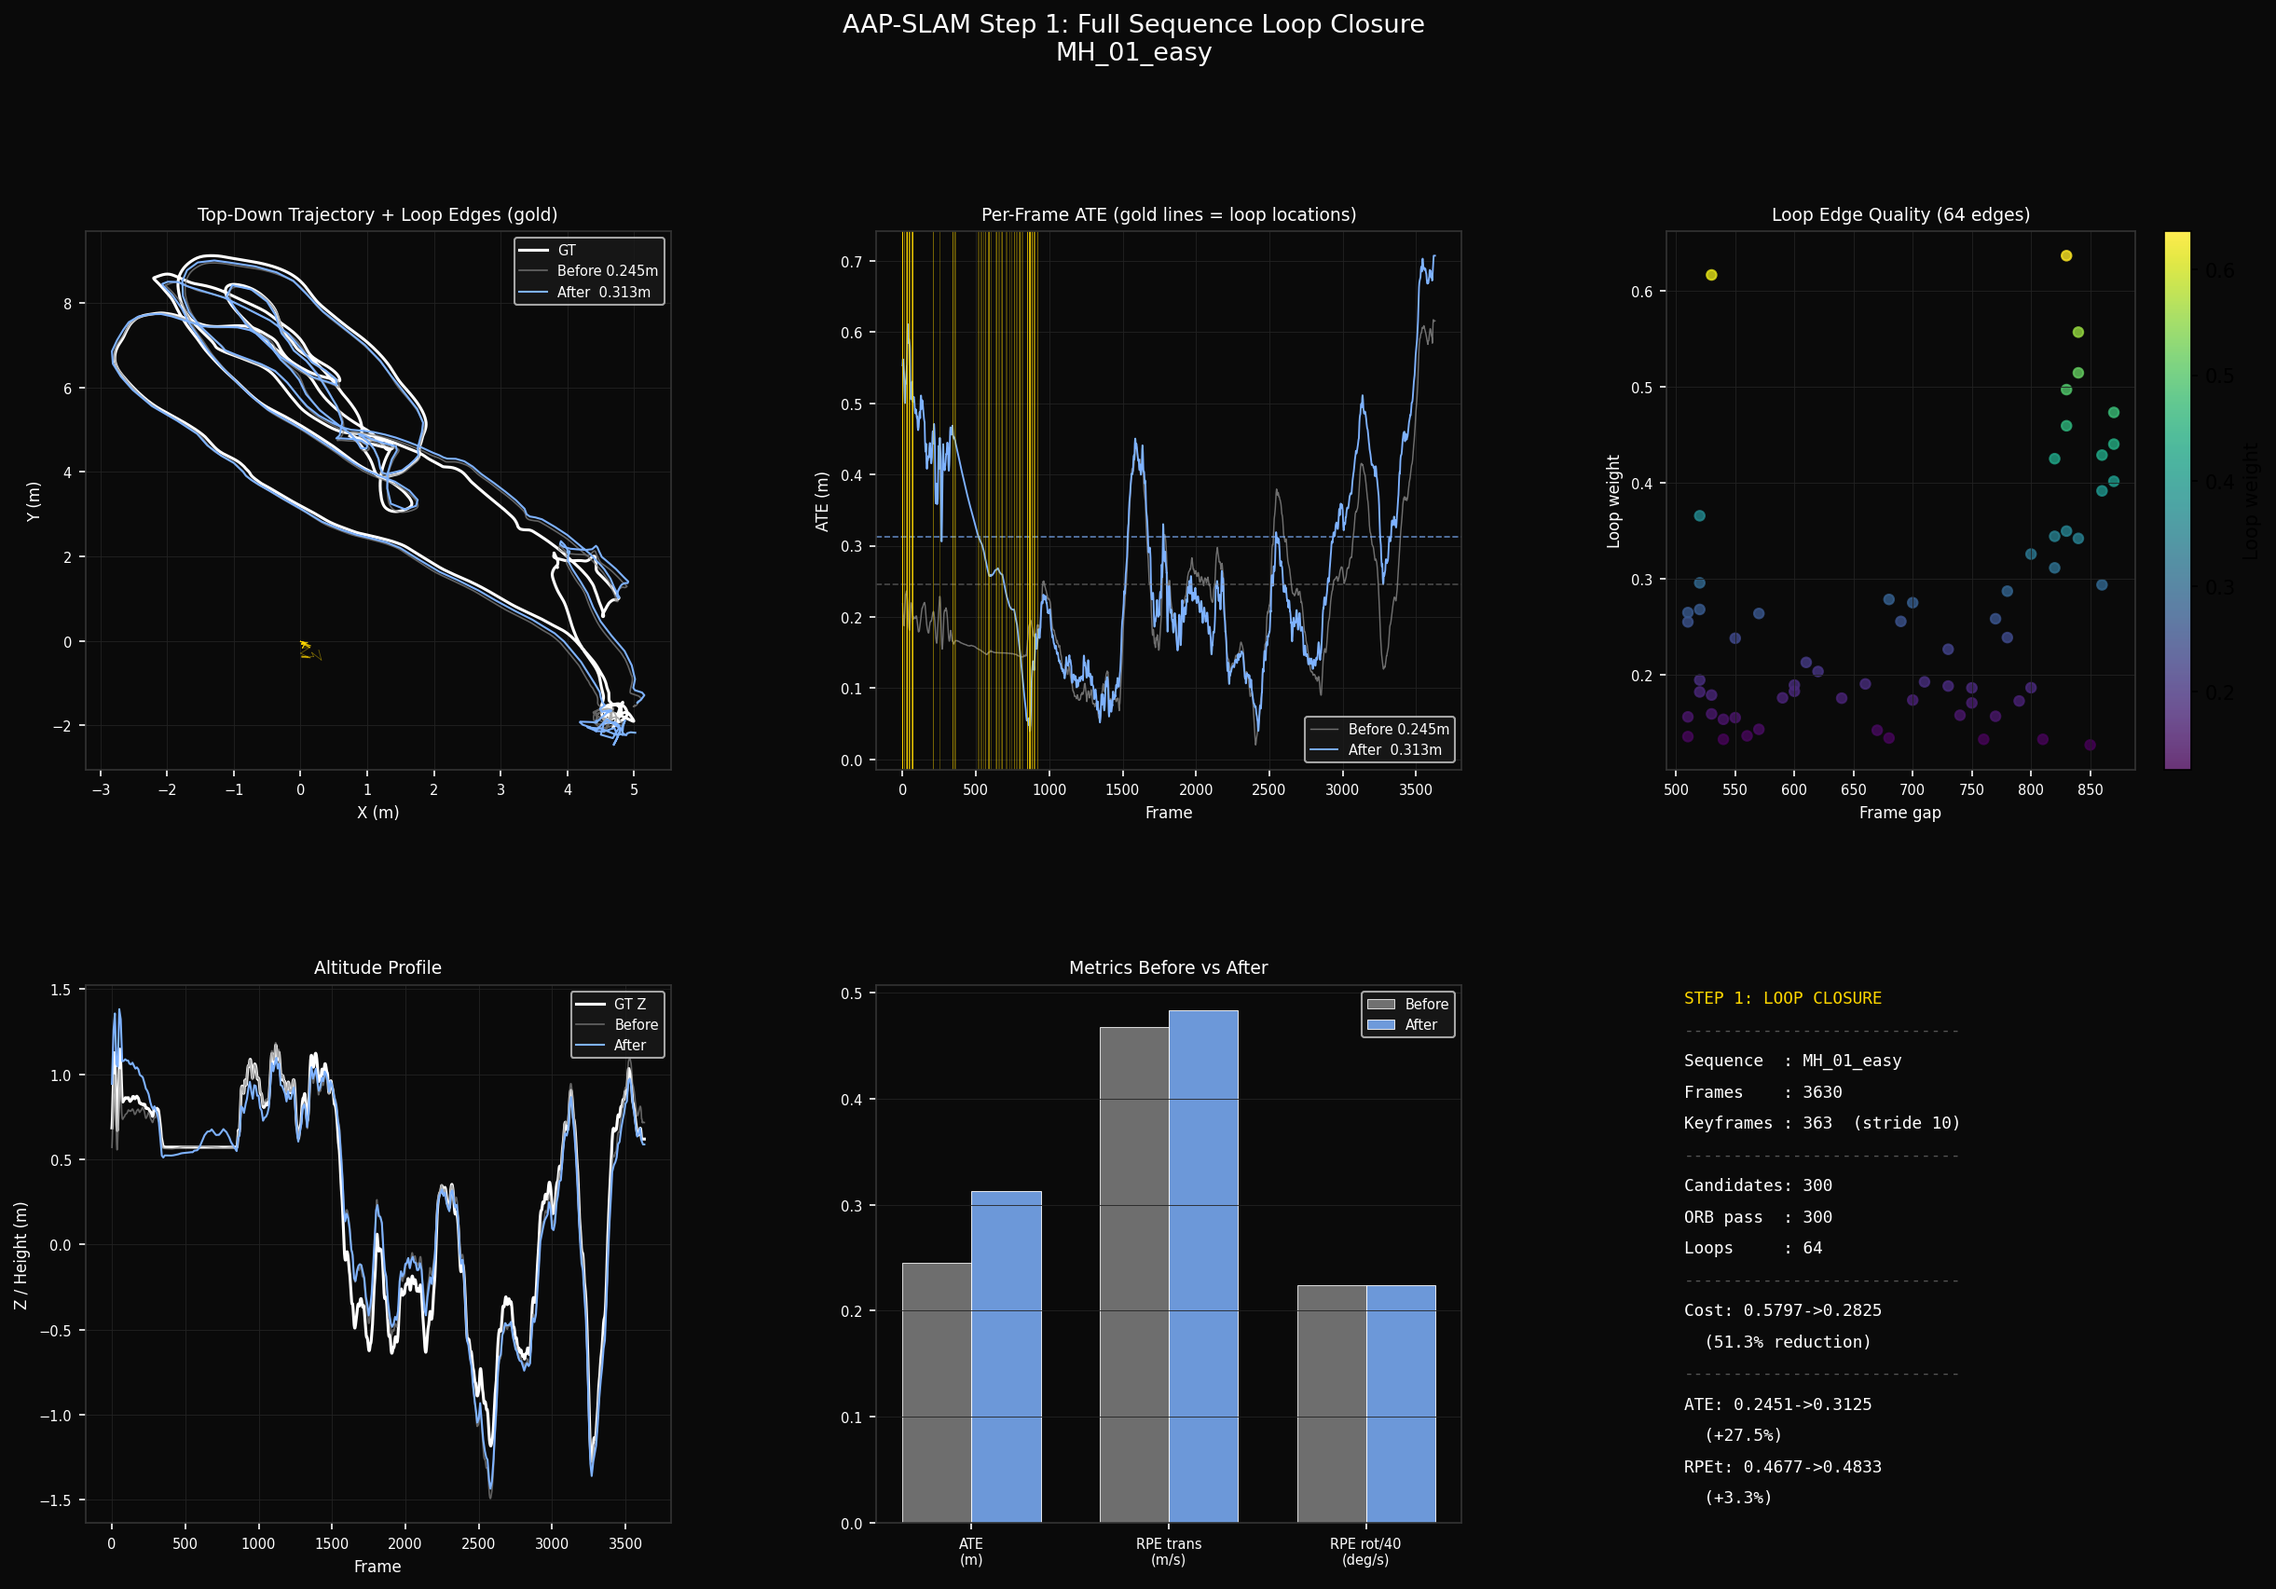
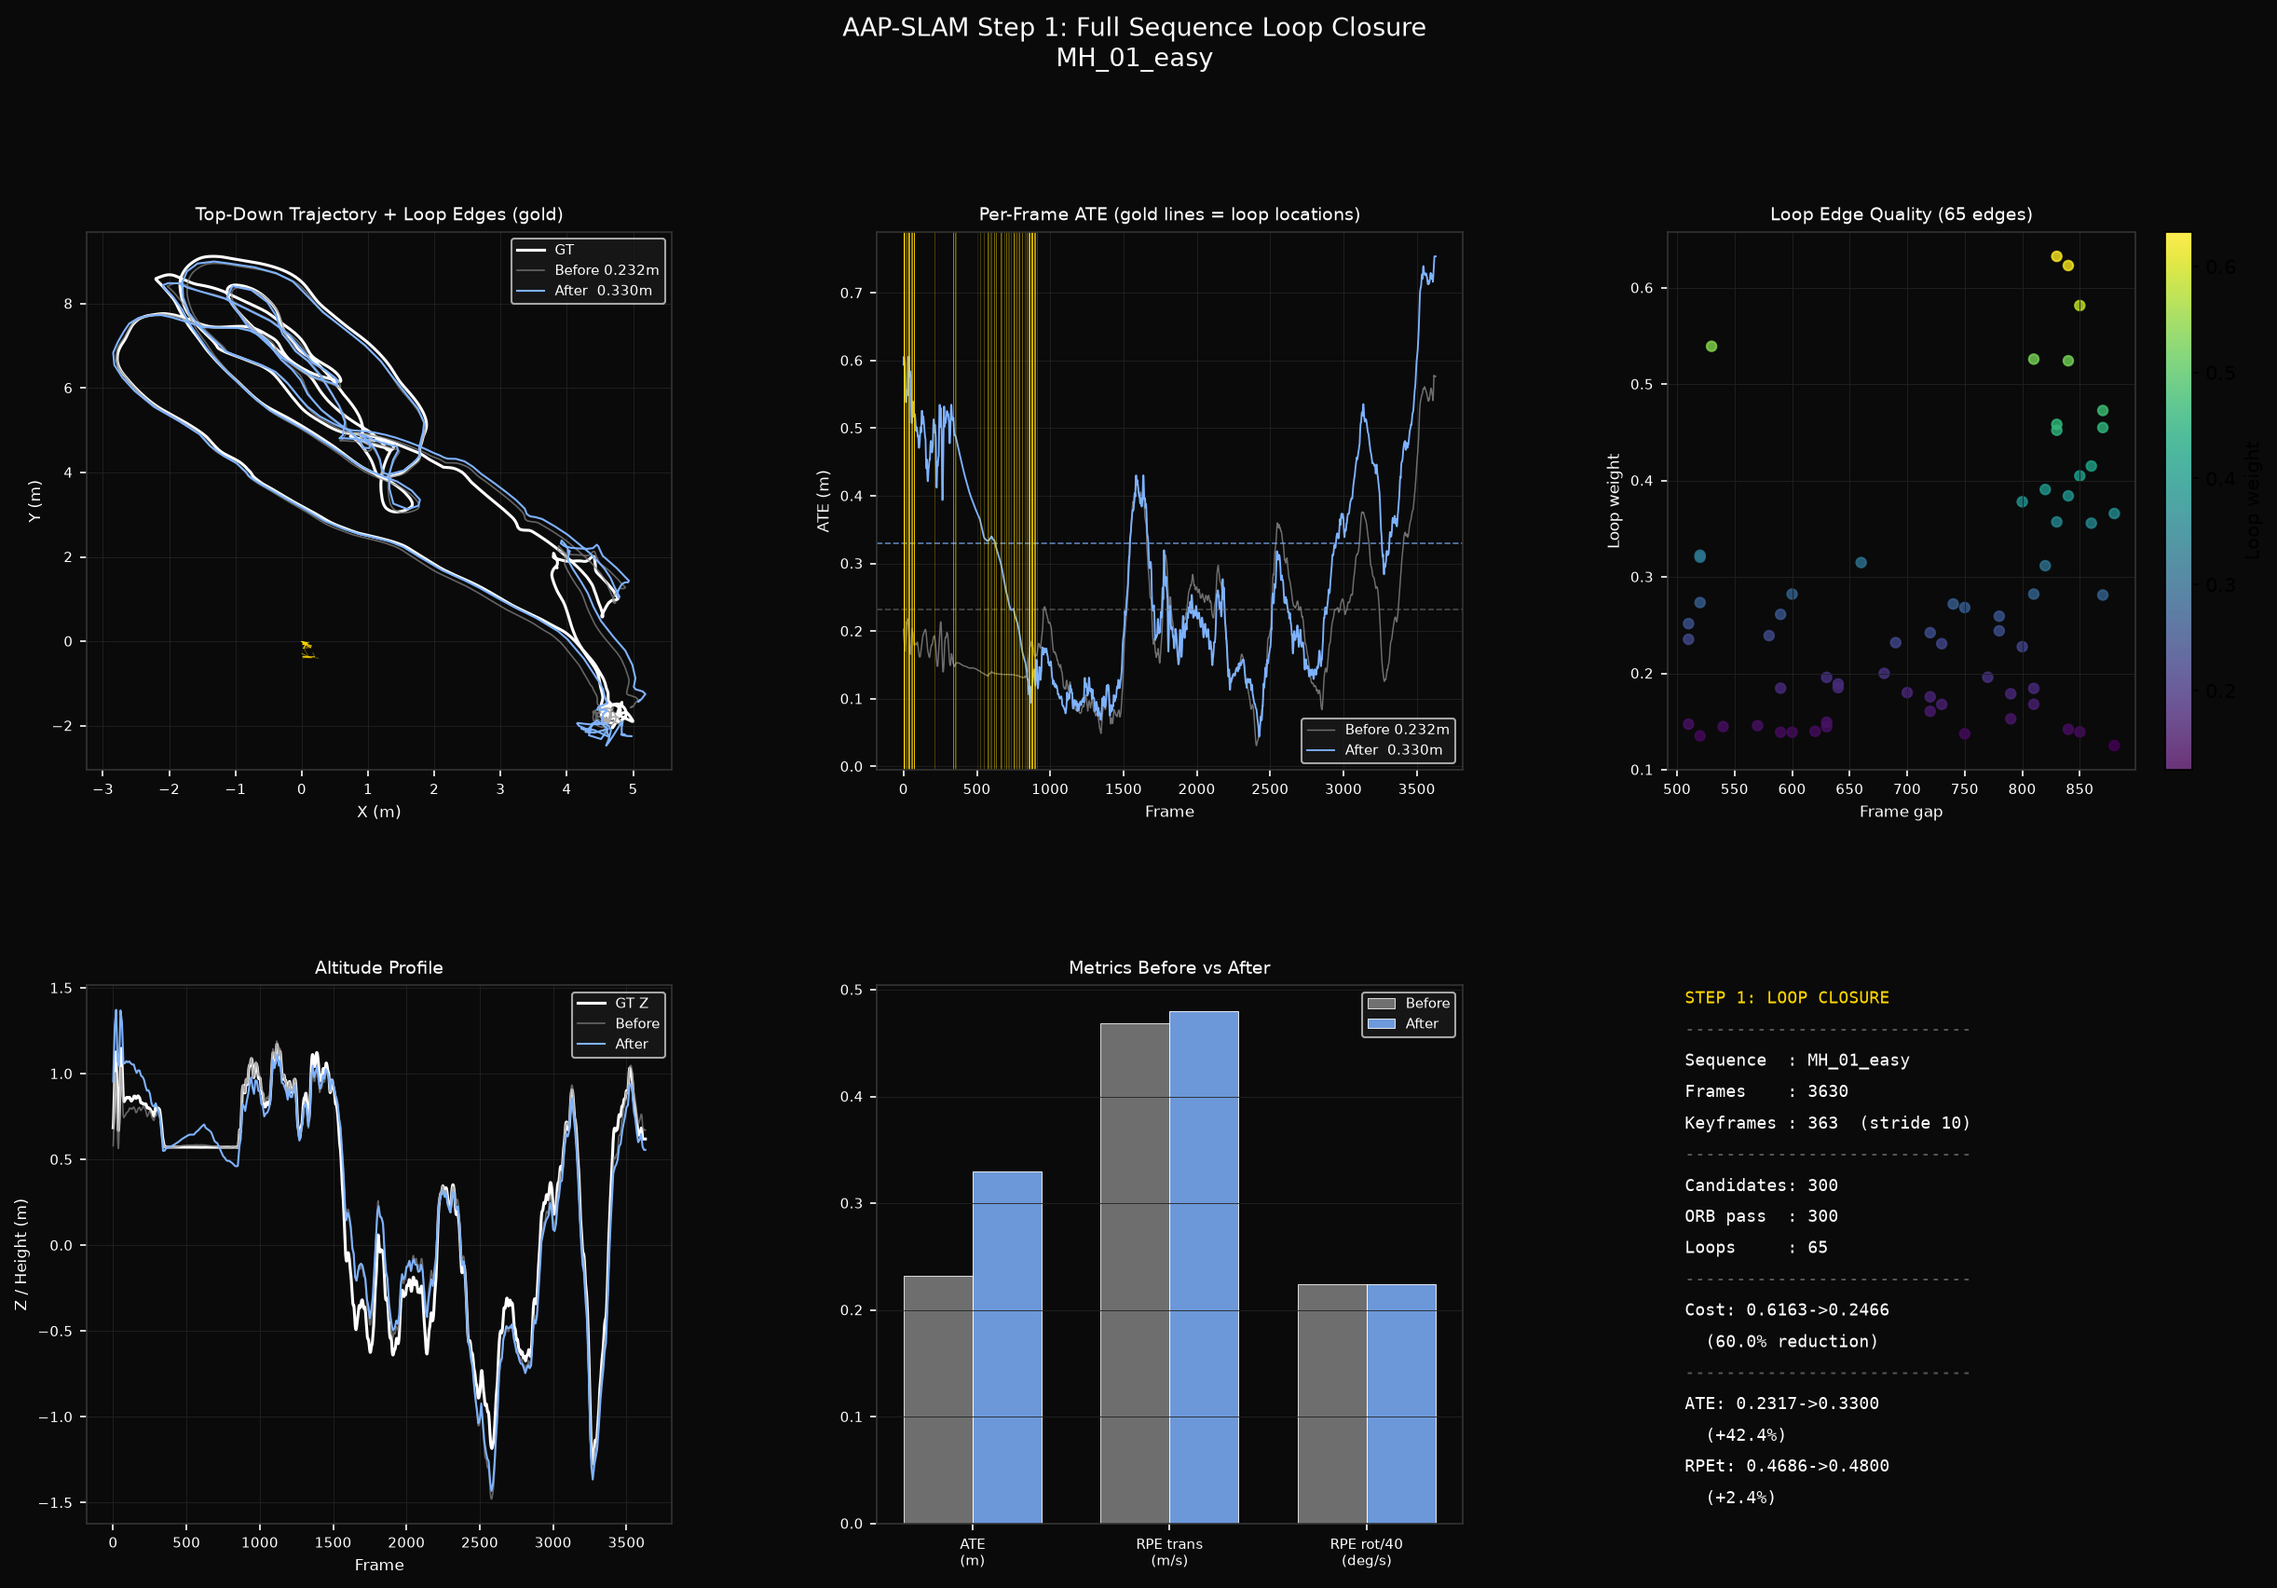
Update portfolio with fresh SLAM results

diff --git a/projects/lk-stereo-visual-slam.md b/projects/lk-stereo-visual-slam.md
@@ -8,7 +8,7 @@ repository: https://github.com/adityx23/aap-slam-orb-nomad-navigation
 date_modified: 2026-08-08
 technologies: [Python, OpenCV, SciPy, EuRoC, Visual-Inertial Odometry]
 built: Stereo visual-inertial and ORB frame-to-map evaluation notebooks covering tracking, geometry, PnP motion estimation, optimization, loop closure, sparse mapping, and topological navigation.
-validated: A tightly coupled 200-frame run improved ATE from 0.1924 m to 0.0305 m; separate full-sequence experiments report approximately 0.23 m ATE and a 3,630-frame ORB run reports 0.9002 m.
+validated: A fresh 29-cell rerun completed without errors: the scoped 200-frame run improved ATE from 0.1924 m to 0.0304 m, while the three-sequence benchmark measured 0.2364 m, 0.1690 m, and 0.3405 m ATE.
 why: Shows algorithmic depth from perception frontend through estimation backend and quantitative trajectory evaluation.
 previous_project_url: /projects/ackermann-autonomous-robot
 previous_project_title: Ackermann Robot Bring-Up & Native Autonomy
@@ -22,7 +22,7 @@ next_project_title: Automatic Transmission Controller
   <div><strong>Role</strong><span>Perception pipeline and evaluation</span></div>
   <div><strong>Context</strong><span>Independent SLAM implementation</span></div>
   <div><strong>Platform</strong><span>Python · OpenCV · SciPy · EuRoC</span></div>
-  <div><strong>Outcome</strong><span>0.0305 m ATE on a scoped 200-frame run</span></div>
+  <div><strong>Outcome</strong><span>0.0304 m scoped ATE · 0.2486 m three-sequence mean</span></div>
 </div>
 
 <div class="project-links" markdown="0">
@@ -146,26 +146,26 @@ To improve rotational stability and overall trajectory consistency, IMU informat
 
 ## Backend Optimization
 
-After the frontend and visual-inertial estimation stages, the trajectory was refined using bundle adjustment. Local and sliding-window optimization were used to reduce drift and improve consistency across neighboring poses.
+After the frontend and visual-inertial estimation stages, local and sliding-window bundle adjustment reduced reprojection error in the optimized windows. In the fresh run, this did not improve global ATE, reinforcing the distinction between local objective improvement and trajectory accuracy.
 
 <p align="center">
   <img src="{{ site.baseurl }}/assets/lk_slam/bundle_adjustment_trajectory.png" alt="Bundle adjustment trajectory improvement" width="700" loading="lazy" decoding="async">
 </p>
 <p align="center">
-  <em>Sliding-window bundle adjustment improved local pose consistency and reduced accumulated drift.</em>
+  <em>Sliding-window bundle adjustment reduced local reprojection error; global ATE remained approximately unchanged.</em>
 </p>
 
 ---
 
 ## Loop Closure and Pose Graph Refinement
 
-To move from visual odometry toward a true SLAM system, the pipeline added loop closure using keyframes and graph-based trajectory correction. Revisited locations were detected and used to globally adjust the trajectory.
+The pipeline also evaluates loop closure using keyframes and graph-based trajectory correction. The fresh run detected 65 loop edges, but the resulting optimization worsened aligned MH_01 trajectory error from 0.2317 m to 0.3300 m. This identifies loop validation and constraint weighting as unresolved engineering work.
 
 <p align="center">
   <img src="{{ site.baseurl }}/assets/lk_slam/slam_loop_closure.png" alt="Loop closure trajectory refinement" width="900" loading="lazy" decoding="async">
 </p>
 <p align="center">
-  <em>Loop closure introduced global consistency by reconnecting revisited parts of the trajectory and reducing long-horizon drift.</em>
+  <em>Negative result: graph cost fell by 60%, while aligned ATE increased by 42.4%.</em>
 </p>
 
 ---
@@ -185,7 +185,9 @@ Alongside trajectory estimation, the system reconstructed a sparse 3D landmark m
 
 ## Results and Validation
 
-The pipelines were evaluated using aligned trajectory comparison and trajectory-error metrics on EuRoC MAV sequences. Results depend strongly on evaluation length and configuration: the 0.0305 m tightly coupled result covers frames 50–249, while the full 3,630-frame MH_01 runs are approximately 0.23 m ATE. The recorded full-sequence loop-closure experiment increased ATE from 0.2451 m to 0.3125 m, so it is retained as a negative result rather than presented as an improvement.
+The notebook was rerun from a fresh kernel on August 8, 2026; all 29 cells completed without an error output. Results depend strongly on evaluation length and configuration. The tightly coupled 200-frame run over frames 50–249 improved ATE from 0.1924 m to 0.0304 m. The full-sequence benchmark measured 0.2364 m on MH_01_easy, 0.1690 m on MH_02_easy, and 0.3405 m on MH_03_medium, for a mean of 0.2486 m.
+
+The fresh full-sequence loop-closure experiment found 65 loop edges but worsened MH_01 ATE from 0.2317 m to 0.3300 m (+42.4%). It is retained as a negative result showing that reducing an internal pose-graph cost does not guarantee better aligned trajectory accuracy.
 
 <div class="figure-grid">
 
@@ -194,7 +196,7 @@ The pipelines were evaluated using aligned trajectory comparison and trajectory-
     <div class="figure-card-body">
       <div class="figure-card-title">Trajectory Alignment</div>
       <div class="figure-card-desc">
-        Final estimated trajectory aligned against ground truth to assess positional consistency.
+        Fresh 200-frame tightly coupled evaluation: 0.1924 m baseline ATE reduced to 0.0304 m.
       </div>
     </div>
   </div>
@@ -204,7 +206,7 @@ The pipelines were evaluated using aligned trajectory comparison and trajectory-
     <div class="figure-card-body">
       <div class="figure-card-title">Multi-Sequence Benchmark</div>
       <div class="figure-card-desc">
-        Evaluation across EuRoC Machine Hall sequences to test consistency beyond a single run.
+        Fresh full-sequence results: 0.2364 m on MH_01, 0.1690 m on MH_02, and 0.3405 m on MH_03.
       </div>
     </div>
   </div>
@@ -213,9 +215,9 @@ The pipelines were evaluated using aligned trajectory comparison and trajectory-
 
 ### Key validated outcomes
 - built a full stereo visual-inertial SLAM pipeline from frontend tracking through backend optimization
-- improved trajectory quality significantly over the baseline visual-only odometry pipeline
+- improved trajectory quality significantly in the scoped 200-frame tightly coupled experiment
 - demonstrated the effect of IMU-assisted estimation on drift reduction
-- added loop closure to enforce global consistency
+- evaluated loop closure and documented that the current constraint design worsens full-sequence ATE
 - generated a sparse 3D landmark map from stereo observations
 
 ---
@@ -241,8 +243,8 @@ The pipelines were evaluated using aligned trajectory comparison and trajectory-
 - frontend quality matters: stable tracking and stereo consistency strongly affect everything downstream
 - stereo rectification quality is critical for reliable depth estimation
 - IMU information is especially valuable for improving rotational stability and trajectory consistency
-- backend optimization adds substantial value beyond raw frame-to-frame odometry
-- loop closure is the key transition point from VO to a more complete SLAM system
+- backend optimization can add value, but must be validated against trajectory metrics rather than internal cost alone
+- loop closure requires stronger geometric validation and weighting before it improves this full-sequence result
 
 ---
 
